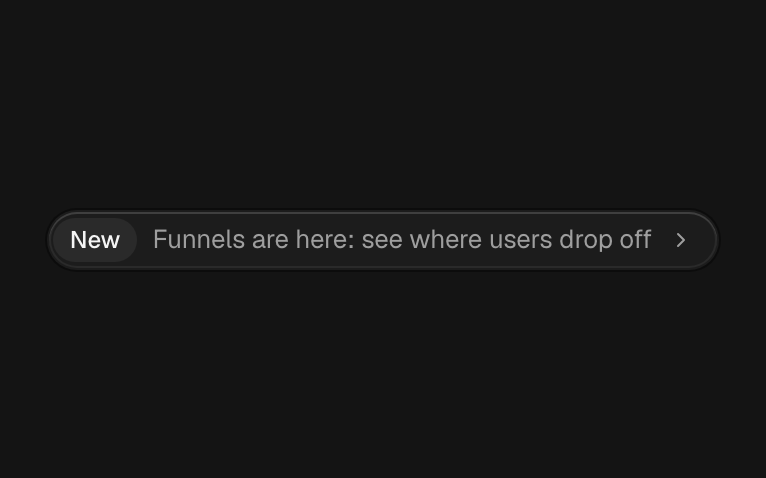
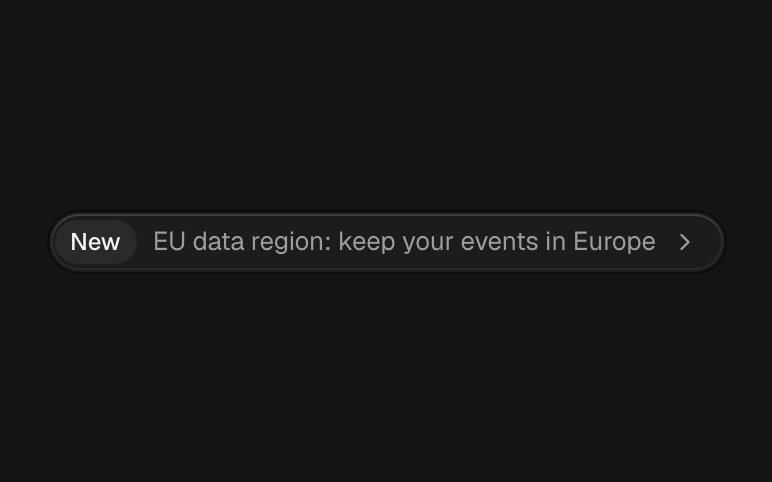
fix(registry): keep announcement badges short and code tabs off the panel stop

Changed region(s): [[0.2102, 0.4686, 0.8708, 0.5272], [0.0901, 0.4686, 0.1501, 0.5272]]

diff --git a/registry/kosmos/examples/announcement.tsx b/registry/kosmos/examples/announcement.tsx
@@ -14,8 +14,8 @@ export default function AnnouncementPreview() {
           rows={rows}
           states={states}
           render={(row, state) => (
-            <Announcement href="#funnels" badge={row === 'with badge' ? 'New' : undefined} {...previewState(state)}>
-              Funnels
+            <Announcement href="#changelog" badge={row === 'with badge' ? 'New' : undefined} {...previewState(state)}>
+              EU region
             </Announcement>
           )}
         />
@@ -27,26 +27,23 @@ export default function AnnouncementPreview() {
 
       <PreviewSection title="Badges">
         <div className="flex flex-wrap items-center gap-3">
-          <Announcement href="#funnels" badge="New">
-            Funnels are here
+          <Announcement href="#changelog" badge="New">
+            EU data region
           </Announcement>
-          <Announcement href="#changelog" badge="v2.4.0">
-            Retention charts
+          <Announcement href="#changelog" badge="Beta">
+            Funnel comparisons
           </Announcement>
-          <Announcement href="#beta" badge="Beta">
-            Session replay for iOS
-          </Announcement>
-          <Announcement href="#status">Scheduled maintenance on 14 October</Announcement>
+          <Announcement href="#status">Scheduled maintenance on 14 October, 02:00 UTC</Announcement>
         </div>
       </PreviewSection>
 
       <PreviewSection title="Long text in a narrow slot">
         <div className="flex w-64 flex-col items-start gap-2 bg-background">
-          <Announcement href="#funnels" badge="New">
-            Funnels, retention cohorts and session replay now on every plan, including Free
+          <Announcement href="#changelog" badge="New">
+            EU data region: keep the events of every project in Europe, on every plan, including Free
           </Announcement>
-          <Announcement href="#changelog" badge="Version 2.4.0-beta.12">
-            Retention charts
+          <Announcement href="#changelog" badge="Beta, Insights area, Q4 2026">
+            Funnel comparisons
           </Announcement>
           <Announcement href="#status">ScheduledMaintenanceForTheIngestionPipelineInEurope</Announcement>
         </div>
@@ -55,14 +52,14 @@ export default function AnnouncementPreview() {
       <PreviewSection title="Other scripts and right to left">
         <div className="flex flex-col items-start gap-3">
           <Announcement href="#el" badge="Νέο">
-            Τα funnels είναι εδώ
+            Περιοχή δεδομένων στην ΕΕ
           </Announcement>
           <Announcement href="#ja" badge="新機能">
-            ファネル分析を公開しました
+            EU データリージョンを公開しました
           </Announcement>
           <div dir="rtl">
             <Announcement href="#ar" badge="جديد">
-              مسارات التحويل متاحة الآن
+              منطقة بيانات الاتحاد الأوروبي متاحة الآن
             </Announcement>
           </div>
         </div>

diff --git a/registry/kosmos/ui/announcement.tsx b/registry/kosmos/ui/announcement.tsx
@@ -34,7 +34,7 @@ function Announcement({ badge, className, children, render, ...props }: Announce
             {badge != null ? (
               <span
                 data-slot="announcement-badge"
-                className="block max-w-[60%] shrink-0 truncate rounded-full bg-accent px-2 py-0.75 text-caption font-medium text-foreground"
+                className="block max-w-1/2 shrink-0 truncate rounded-full bg-accent px-2 py-0.75 text-caption font-medium text-foreground"
               >
                 {badge}
               </span>
@@ -44,7 +44,7 @@ function Announcement({ badge, className, children, render, ...props }: Announce
             </span>
             <ChevronRight
               aria-hidden
-              className="size-3 shrink-0 transition-[translate] rtl:-scale-x-100 motion-safe:ltr:group-hover/announcement:translate-x-0.5 motion-safe:rtl:group-hover/announcement:-translate-x-0.5"
+              className="size-3.5 shrink-0 transition-[translate] rtl:-scale-x-100 motion-safe:ltr:group-hover/announcement:translate-x-0.5 motion-safe:rtl:group-hover/announcement:-translate-x-0.5"
             />
           </>
         ),

diff --git a/registry/kosmos/ui/code-tabs.tsx b/registry/kosmos/ui/code-tabs.tsx
@@ -29,6 +29,7 @@ function useCopyCommand(command: string, commandRef: React.RefObject<HTMLElement
   const copy = () => {
     clearTimeout(timer.current);
     setLast(null);
+    // `navigator.clipboard` is undefined on a page served over plain http; inside `then` that throw becomes a refusal.
     Promise.resolve()
       .then(() => navigator.clipboard.writeText(command))
       .then(
@@ -55,7 +56,7 @@ function withBreaks(command: string) {
   ));
 }
 
-type CodeTabsProps<Tab extends string> = Omit<TabsPrimitive.Root.Props, 'value' | 'defaultValue' | 'onValueChange' | 'children'> & {
+type CodeTabsProps<Tab extends string> = Omit<TabsPrimitive.Root.Props, 'value' | 'defaultValue' | 'onValueChange' | 'orientation' | 'children'> & {
   /** One tab per key, in order: the key is the tab's label and the value the command it shows. */
   commands: Record<Tab, string>;
   /** The open tab, for a choice you keep yourself, such as the visitor's package manager. */

diff --git a/registry/kosmos/examples/announcement-hero.tsx b/registry/kosmos/examples/announcement-hero.tsx
@@ -4,8 +4,8 @@ import { Button } from '@/registry/kosmos/ui/button';
 export default function AnnouncementHero() {
   return (
     <div className="flex flex-col items-center gap-5 py-6 text-center">
-      <Announcement href="#changelog" badge="v2.4">
-        Retention charts for every plan
+      <Announcement href="#changelog" badge="New">
+        Annual billing is here
       </Announcement>
       <h2 className="max-w-[14em] text-display font-semibold text-balance text-foreground">Know what every user does next</h2>
       <div className="flex flex-wrap justify-center gap-3">

diff --git a/registry/kosmos/examples/announcement-demo.tsx b/registry/kosmos/examples/announcement-demo.tsx
@@ -2,8 +2,8 @@ import { Announcement } from '@/registry/kosmos/ui/announcement';
 
 export default function AnnouncementDemo() {
   return (
-    <Announcement href="#funnels" badge="New">
-      Funnels are here: see where users drop off
+    <Announcement href="#changelog" badge="New">
+      EU data region: keep your events in Europe
     </Announcement>
   );
 }

diff --git a/registry/kosmos/examples/announcement-plain.tsx b/registry/kosmos/examples/announcement-plain.tsx
@@ -1,5 +1,5 @@
 import { Announcement } from '@/registry/kosmos/ui/announcement';
 
 export default function AnnouncementPlain() {
-  return <Announcement href="#status">Scheduled maintenance on 14 October, 02:00 UTC</Announcement>;
+  return <Announcement href="https://status.acme.example">Scheduled maintenance on 14 October, 02:00 UTC</Announcement>;
 }

diff --git a/.claude/skills/build-component/demo-world.md b/.claude/skills/build-component/demo-world.md
@@ -182,6 +182,8 @@ Marketing blocks show the Acme website, `acme.example`, which sells the product 
 
 - Hero: title "Know what every user does next", one line "Acme collects events from your web, iOS, Android and server apps and turns them into answers your whole team can read.", actions "Start for free" (primary, to `/signup`) and "Book a demo" (secondary, to `/demo`), and the install command `curl -fsSL https://acme.example/install.sh | sh`.
 - Bento: title "From the first event to the answer", one line "Acme collects your events, joins them to your users and keeps the numbers your team asks about ready to read." Tiles, in order: Live events (wide; a feed of `signup_completed`, `checkout_started`, `trial_converted` and `page_viewed` from the first projects), Funnels (meters: Viewed pricing 100%, Started a trial 38%, Paid 12%), Every platform (Web, iOS, Android and Server with their SDKs) and Alerts (wide; switches for "Signups drop below 40 a day", "Error events pass 2%" and "Weekly summary").
+- Announcement: the pill above the hero links to the changelog: "New" with "EU data region: keep your events in Europe" or "Annual billing is here" (the Shipped roadmap items), "Beta" with "Funnel comparisons", and a notice with no badge, "Scheduled maintenance on 14 October, 02:00 UTC", linking to `status.acme.example`.
+- Code tabs: the SDK installs as `@acme/analytics` (`pnpm add`, `npm install`, `yarn add`, `bun add`); the CLI is `@acme/cli` (`pnpm dlx @acme/cli init`, `npx`, `yarn dlx`, `bunx`) and, once installed, `acme login`. Acme's own component registry is `https://ui.acme.example/r/{name}.json`.
 - Footer: "Acme" with the line "Product analytics for the teams that run sites and apps."; columns Product (Features, Pricing, Changelog, Roadmap), Developers (Docs, SDKs, API reference, Status at `status.acme.example`), Company (About, Blog, Careers, Contact) and Legal (Privacy, Terms, Security); icon links to the blog feed (`/blog/rss.xml`) and `hello@acme.example`, the site's one shared address; "© 2026 Acme".
 
 ## AI agents
